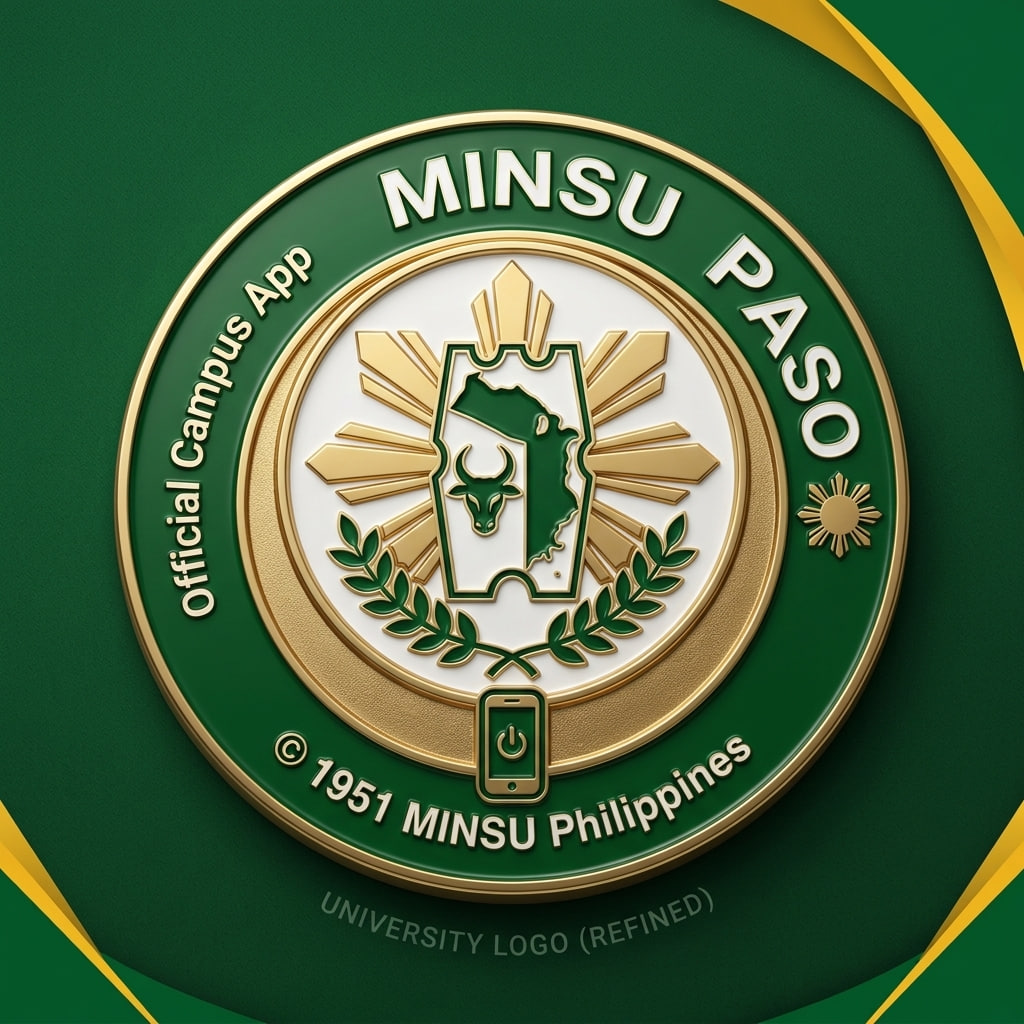
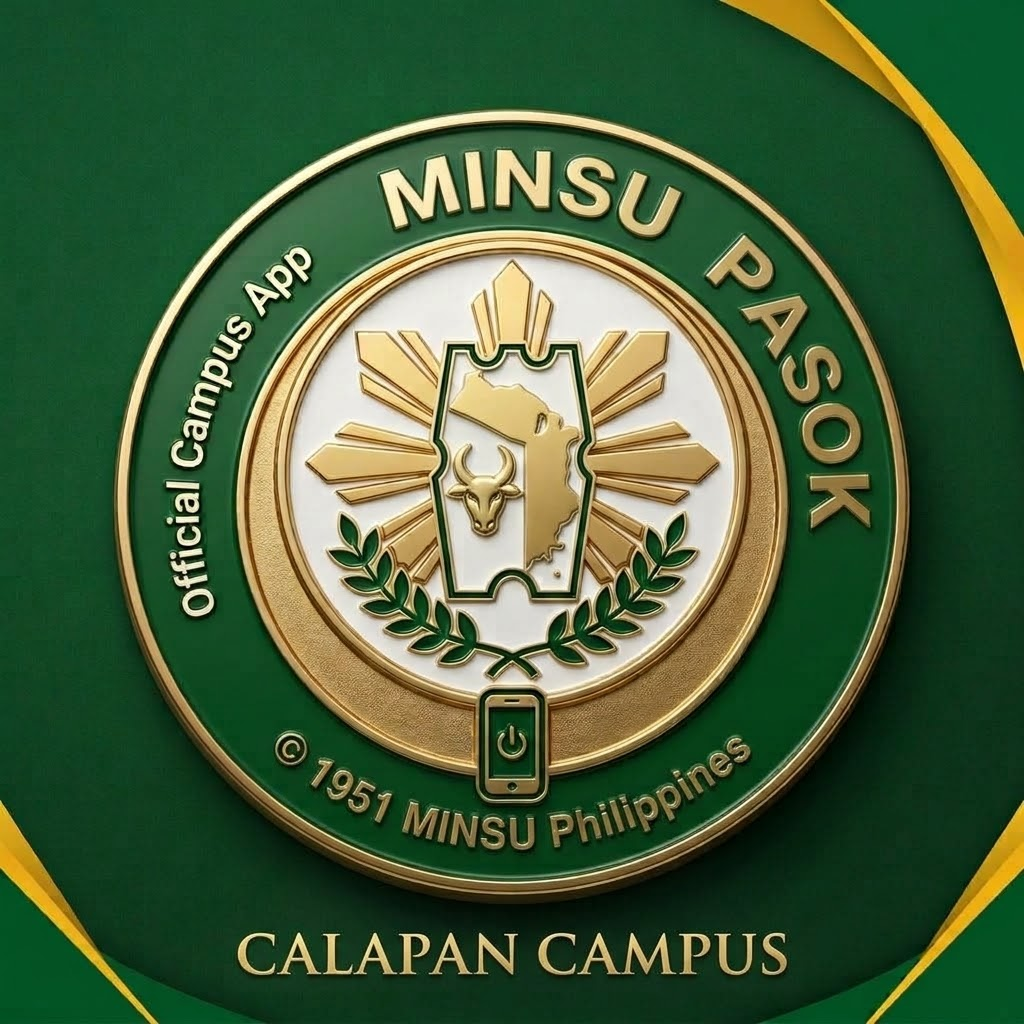
Updated

diff --git a/src/views/SettingsPage.vue b/src/views/SettingsPage.vue
@@ -13,7 +13,7 @@
         </IonToolbar>
       </IonHeader>
 
-      <SectionHeader title="Account" subtitle="Signed in to Class Trackerbonia" />
+      <SectionHeader title="Account" subtitle="Signed in to P.A.S.O.K." />
 
       <IonList class="group">
         <IonItem>
@@ -84,8 +84,8 @@
       <IonList class="group">
         <IonItem>
           <IonLabel>
-            <h3>Class Trackerbonia</h3>
-            <p>Smart Class Attendance Tracker</p>
+            <h3>P.A.S.O.K.</h3>
+            <p>Portal for Attendance, Student Overview, and Kinetics</p>
           </IonLabel>
         </IonItem>
         <IonItem>
@@ -156,7 +156,7 @@ const { showToast, showError, confirm } = useFeedback();
 
 async function confirmLogout(): Promise<void> {
   const ok = await confirm({
-    header: 'Log out of Class Trackerbonia?',
+    header: 'Log out of P.A.S.O.K.?',
     message: 'You will need to sign in again to record or view attendance.',
     confirmText: 'Log Out',
     destructive: true,

diff --git a/src/views/HomePage.vue b/src/views/HomePage.vue
@@ -2,7 +2,7 @@
   <IonPage>
     <IonHeader>
       <IonToolbar>
-        <IonTitle>Class Trackerbonia</IonTitle>
+        <IonTitle>P.A.S.O.K.</IonTitle>
         <IonButtons slot="end">
           <IonButton router-link="/tabs/settings" aria-label="Settings">
             <IonIcon slot="icon-only" :icon="settingsOutline" />
@@ -14,7 +14,7 @@
     <IonContent :fullscreen="true">
       <IonHeader collapse="condense">
         <IonToolbar>
-          <IonTitle size="large">Class Trackerbonia</IonTitle>
+          <IonTitle size="large">P.A.S.O.K.</IonTitle>
         </IonToolbar>
       </IonHeader>
 
@@ -22,7 +22,7 @@
         <IonRefresherContent />
       </IonRefresher>
 
-      <p class="subtitle">Smart Class Attendance Tracker</p>
+      <p class="subtitle">Portal for Attendance, Student Overview, and Kinetics</p>
 
       <ConnectionNotice @retry="load" />
 

diff --git a/src/services/auth.ts b/src/services/auth.ts
@@ -29,7 +29,7 @@ const USERS = 'users';
 function toFriendlyAuthError(error: unknown, fallback: string): AppError {
   if (error instanceof AppError) return error;
 
-  console.error('[Class Trackerbonia] Auth error:', error);
+  console.error('[P.A.S.O.K.] Auth error:', error);
 
   const code = (error as { code?: string })?.code ?? '';
   switch (code) {
@@ -219,7 +219,7 @@ export async function signupStudent(input: SignupInput): Promise<UserProfile> {
      */
     await deleteUser(user).catch(() => signOut(auth).catch(() => undefined));
     console.error(
-      '[Class Trackerbonia] Sign-up failed after creating student',
+      '[P.A.S.O.K.] Sign-up failed after creating student',
       student.studentId,
       '- an admin may need to remove that entry.'
     );

diff --git a/src/views/LoginPage.vue b/src/views/LoginPage.vue
@@ -13,7 +13,7 @@
             <img src="@/assets/minsu-logo.png" alt="MinSU Logo" class="school-logo" />
             <div class="institution__text">
               <span class="institution__title">Mindoro State University</span>
-              <span class="institution__sub">Main Campus</span>
+              <span class="institution__sub">CALAPAN CAMPUS</span>
             </div>
           </div>
 

diff --git a/src/firebase.ts b/src/firebase.ts
@@ -32,7 +32,7 @@ export const isFirebaseConfigured: boolean = Boolean(
 if (!isFirebaseConfigured) {
   // Developer-facing warning only. Users never see raw Firebase errors.
   console.warn(
-    '[Class Trackerbonia] Firebase is not configured. Fill in firebaseConfig in src/firebase.ts.'
+    '[P.A.S.O.K.] Firebase is not configured. Fill in firebaseConfig in src/firebase.ts.'
   );
 }
 

diff --git a/src/views/LandingPage.vue b/src/views/LandingPage.vue
@@ -13,7 +13,7 @@
             <span class="hero__title-accent">Trackerbonia</span>
           </h1>
 
-          <p class="hero__tagline">Smart Class Attendance Tracker</p>
+          <p class="hero__tagline">Portal for Attendance, Student Overview, and Kinetics</p>
 
           <p class="hero__copy">
             A modern way to manage students, attendance, and classroom records.

diff --git a/src/services/db.ts b/src/services/db.ts
@@ -45,7 +45,7 @@ export class AppError extends Error {
 function toFriendlyError(error: unknown, fallback: string): AppError {
   if (error instanceof AppError) return error;
 
-  console.error('[Class Trackerbonia] Firestore error:', error);
+  console.error('[P.A.S.O.K.] Firestore error:', error);
 
   const code = (error as { code?: string })?.code ?? '';
   switch (code) {

diff --git a/src/views/SignupPage.vue b/src/views/SignupPage.vue
@@ -9,7 +9,7 @@
 
         <header class="head ct-enter">
           <h1 class="head__title">Create Your Account</h1>
-          <p class="head__copy">Create your Class Trackerbonia student account.</p>
+          <p class="head__copy">Create your P.A.S.O.K. student account.</p>
         </header>
 
         <!--

diff --git a/README.md b/README.md
@@ -1,4 +1,4 @@
-# Class Trackerbonia — Smart Class Attendance Tracker
+# P.A.S.O.K. — Portal for Attendance, Student Overview, and Kinetics
 
 An iPhone-first class attendance tracker for teachers, built with **Ionic Framework + Vue 3 +
 TypeScript + Firebase Firestore + Capacitor**, ready to open in **Xcode** and run on a real iPhone.
@@ -96,13 +96,13 @@ The Firebase web config lives directly in [`src/firebase.ts`](src/firebase.ts).
 **Step 1 — Create the project**
 
 1. Go to <https://console.firebase.google.com> and click **Add project**.
-2. Name it `Class Trackerbonia` (any name works). Google Analytics is optional — you can turn it off.
+2. Name it `P.A.S.O.K.` (any name works). Google Analytics is optional — you can turn it off.
 3. Wait for the project to be created, then click **Continue**.
 
 **Step 2 — Register a Web app**
 
 1. On the project overview page, click the **Web** icon (`</>`).
-2. App nickname: `Class Trackerbonia Web`. Do **not** tick "Firebase Hosting" (not needed).
+2. App nickname: `P.A.S.O.K. Web`. Do **not** tick "Firebase Hosting" (not needed).
 3. Click **Register app**. Firebase shows you a `firebaseConfig` object.
 
 **Step 3 — Paste it into `src/firebase.ts`**
@@ -417,7 +417,7 @@ npx cap open ios
 
 ```ts
 appId: 'com.classtrack.attendance',
-appName: 'Class Trackerbonia',
+appName: 'P.A.S.O.K.',
 webDir: 'dist',
 ```
 
@@ -453,7 +453,7 @@ try again.
 **iOS 14.0 or newer**; leave the default unless you have a reason to change it. It must not be
 higher than the iOS version on your test iPhone.
 
-**App name** — *General* tab → **Display Name**: `Class Trackerbonia`. This is the name under the icon on the
+**App name** — *General* tab → **Display Name**: `P.A.S.O.K.`. This is the name under the icon on the
 home screen. (You can also edit `CFBundleDisplayName` in `ios/App/App/Info.plist`.)
 
 **Version and build** — *General* tab → **Version** `1.0`, **Build** `1`. Increase the build number
@@ -468,7 +468,7 @@ landscape options if you want the app locked to portrait, which suits this layou
 
 **Does this app need `GoogleService-Info.plist`? No — and here is why.**
 
-Class Trackerbonia uses the **Firebase JavaScript (Web) SDK** inside the Capacitor web view. All Firestore
+P.A.S.O.K. uses the **Firebase JavaScript (Web) SDK** inside the Capacitor web view. All Firestore
 traffic goes through the web SDK using the config in `src/firebase.ts`, which is compiled into the
 JS bundle at build time. The native `GoogleService-Info.plist` is only read by the **native** Firebase
 iOS SDK, which this app does not use. Your iPhone build will talk to Firestore correctly with no
@@ -513,7 +513,7 @@ Notes:
   TestFlight and the App Store.
 - Your iPhone needs an internet connection — Firestore is a cloud database.
 - To debug the web layer running on the phone: Safari on the Mac → **Develop → [your iPhone] →
-  Class Trackerbonia**. That gives you the full console and inspector. (Enable Safari → Settings → Advanced →
+  P.A.S.O.K.**. That gives you the full console and inspector. (Enable Safari → Settings → Advanced →
   *Show features for web developers* first.)
 
 ---
@@ -582,7 +582,7 @@ Release build for the App Store (Mac): `npm run build && npx cap sync ios`, then
 ## 15. Project structure
 
 ```text
-Class Trackerbonia/
+P.A.S.O.K./
 │
 ├── src/
 │   ├── components/

diff --git a/BUILD-IPA.md b/BUILD-IPA.md
@@ -16,7 +16,7 @@ so on a Mac it is about four commands.
 | `ios/` native project | created (`npx cap add ios`) |
 | Web build copied in | `dist/` → `ios/App/App/public` |
 | Bundle identifier | `com.classtrack.attendance` |
-| Display name | `Class Trackerbonia` |
+| Display name | `P.A.S.O.K.` |
 | App icon (1024, opaque, no alpha) | installed in `Assets.xcassets/AppIcon` |
 | Launch screen | dark `#0B0F14` with the app mark, so it does not flash white |
 
